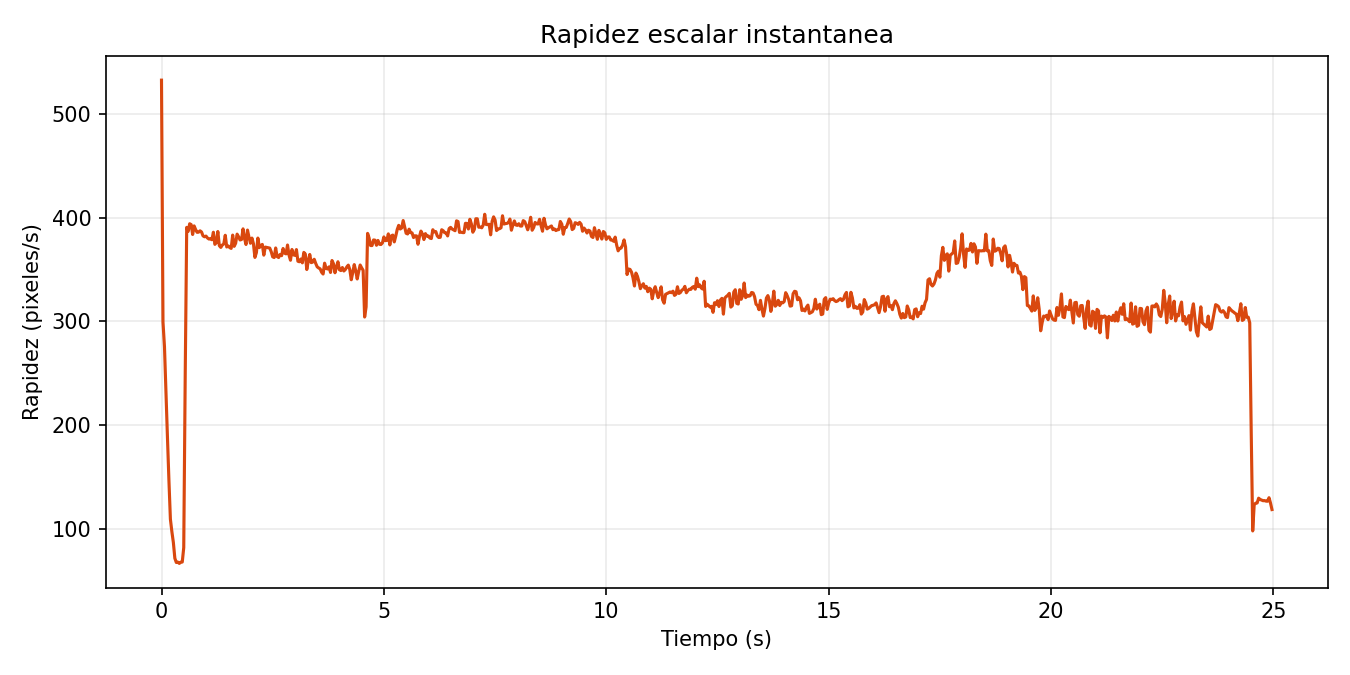
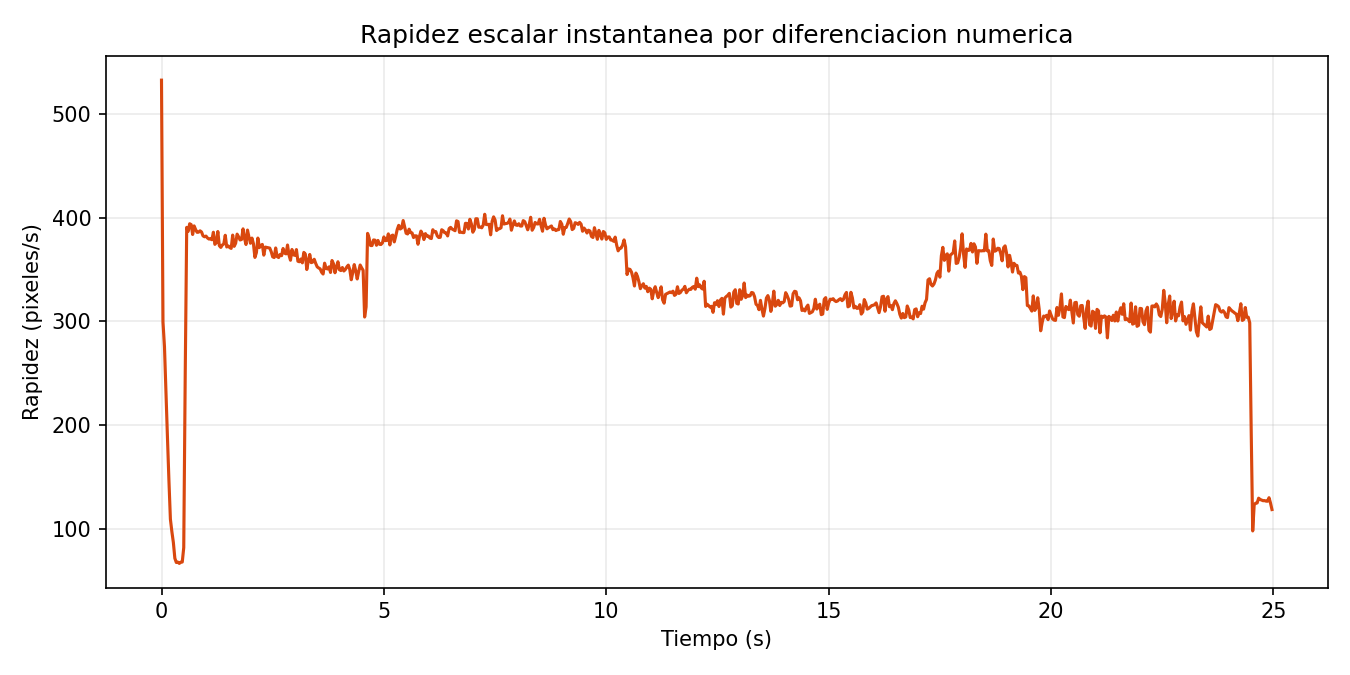
Cambios pequeños en el caso A

Changed region(s): [[0.2489, 0.0311, 0.8089, 0.0622]]

diff --git a/TP4/src/renderizado_caso_A.py b/TP4/src/renderizado_caso_A.py
@@ -32,8 +32,8 @@ ALTO_PANEL = 600
 # ---------------------------------------------------------------------
 # Carga y referencia espacial
 # ---------------------------------------------------------------------
-def cargar_trayectoria_y_zoom(ruta_csv: Path):
-    t, x, y, _, t_nodos, x_nodos, y_nodos, _ = cargar_datos_y_nodos(
+def cargar_trayectoria(ruta_csv: Path):
+    t, _, _, _, t_nodos, x_nodos, y_nodos, _ = cargar_datos_y_nodos(
         ruta_csv, SALTO_NODOS
     )
     zoom = np.genfromtxt(
@@ -44,18 +44,17 @@ def cargar_trayectoria_y_zoom(ruta_csv: Path):
         dtype=float,
     )
     zoom = np.atleast_1d(zoom)
-    if len(t) < 2 or len(zoom) != len(t):
-        raise ValueError("La trayectoria y el zoom no tienen la misma cantidad de muestras")
-    if not np.all(np.isfinite(t)) or not np.all(np.diff(t) > 0):
+    if len(t) < 2 or not np.all(np.isfinite(t)) or not np.all(np.diff(t) > 0):
         raise ValueError("Los tiempos deben ser finitos y estrictamente crecientes")
-    if not np.all(np.isfinite(zoom)) or np.any(zoom <= 0):
-        raise ValueError("El zoom relativo debe contener valores positivos y finitos")
+    if len(zoom) != len(t) or not np.all(np.isfinite(zoom)) or np.any(zoom <= 0):
+        raise ValueError("El zoom debe tener un valor positivo y finito por muestra")
+    zoom = zoom / zoom[0]
 
     x_spline = spline_cubico_natural(t, t_nodos, x_nodos)
     y_spline = spline_cubico_natural(t, t_nodos, y_nodos)
     if not np.all(np.isfinite(x_spline)) or not np.all(np.isfinite(y_spline)):
         raise ValueError("El spline produjo coordenadas no finitas")
-    return t, x, y, x_spline, y_spline, zoom
+    return t, t_nodos, x_nodos, y_nodos, x_spline, y_spline, zoom
 
 
 def obtener_referencia_frame0(ruta_video: Path, mapa):
@@ -96,39 +95,40 @@ def obtener_referencia_frame0(ruta_video: Path, mapa):
 # ---------------------------------------------------------------------
 # Parametrizacion de la trayectoria
 # ---------------------------------------------------------------------
-def remuestrear_velocidad_constante(t, x, y, zoom, t_nodos, x_nodos, y_nodos):
+def remuestrear_velocidad_constante(
+    t, t_nodos, x_nodos, y_nodos, zoom, cantidad_muestras_densas=10000
+):
     t = np.asarray(t, dtype=float)
-    x = np.asarray(x, dtype=float)
-    y = np.asarray(y, dtype=float)
     zoom = np.asarray(zoom, dtype=float)
-    if len(t) < 2 or not (len(t) == len(x) == len(y) == len(zoom)):
-        raise ValueError("Las muestras temporales, espaciales y de zoom deben coincidir")
+    if len(t) < 2 or not np.all(np.diff(t) > 0):
+        raise ValueError("Se necesitan al menos dos tiempos estrictamente crecientes")
+    if len(zoom) != len(t) or not np.all(np.isfinite(zoom)) or np.any(zoom <= 0):
+        raise ValueError("El zoom debe tener un valor positivo y finito por muestra")
 
     # Una tabla densa mide la longitud del spline, no solo la cuerda entre muestras.
-    t_denso = np.linspace(t[0], t[-1], max(10000, 100 * len(t)))
+    t_denso = np.linspace(t[0], t[-1], max(cantidad_muestras_densas, 100 * len(t)))
     x_denso = spline_cubico_natural(t_denso, t_nodos, x_nodos)
     y_denso = spline_cubico_natural(t_denso, t_nodos, y_nodos)
-    zoom_denso = np.interp(t_denso, t, zoom)
     tramos = np.hypot(np.diff(x_denso), np.diff(y_denso))
     longitud = np.concatenate(([0.0], np.cumsum(tramos)))
     if longitud[-1] <= 0.0:
         raise ValueError("La trayectoria no tiene longitud suficiente para renderizarse")
 
-    # El zoom amplifica el desplazamiento visible. Para mantener constante
-    # esa rapidez, la distancia del mapa debe crecer proporcional a 1 / zoom.
-    tiempo_inverso_zoom = 1.0 / zoom_denso
-    integral_inversa = np.concatenate(
-        ([0.0], np.cumsum(
-            0.5 * (tiempo_inverso_zoom[:-1] + tiempo_inverso_zoom[1:])
-            * np.diff(t_denso)
-        ))
-    )
-    velocidad_constante = longitud[-1] / integral_inversa[-1]
-    distancia_objetivo = velocidad_constante * np.interp(t, t_denso, integral_inversa)
-    x_uniforme = np.interp(distancia_objetivo, longitud, x_denso)
-    y_uniforme = np.interp(distancia_objetivo, longitud, y_denso)
-    zoom_uniforme = zoom.copy()
-    return x_uniforme, y_uniforme, zoom_uniforme, velocidad_constante
+    # El zoom amplifica el movimiento visible. Para que la rapidez del
+    # render permanezca constante, la longitud debe avanzar proporcionalmente
+    # a 1 / zoom(t).
+    zoom_denso = np.interp(t_denso, t, zoom)
+    tiempo_visual = 1.0 / zoom_denso
+    tiempo_visual_acumulado = np.concatenate(([0.0], np.cumsum(
+        0.5 * (tiempo_visual[:-1] + tiempo_visual[1:]) * np.diff(t_denso)
+    )))
+    # Esta velocidad es la rapidez aparente sobre el panel, no la rapidez
+    # geométrica sin zoom sobre el mapa.
+    velocidad_constante = longitud[-1] / tiempo_visual_acumulado[-1]
+    distancia = velocidad_constante * np.interp(t, t_denso, tiempo_visual_acumulado)
+    x_uniforme = np.interp(distancia, longitud, x_denso)
+    y_uniforme = np.interp(distancia, longitud, y_denso)
+    return x_uniforme, y_uniforme, zoom, velocidad_constante
 
 
 def validar_velocidad_constante(t, velocidad_constante):
@@ -194,14 +194,10 @@ def renderizar_caso_A(ruta_csv=RUTA_CSV, ruta_mapa=RUTA_MAPA, ruta_video=RUTA_VI
     frame0, _, base_width, base_height = obtener_referencia_frame0(
         RUTA_VIDEO_ORIGINAL, mapa
     )
-    t, _, _, x_spline, y_spline, zoom = cargar_trayectoria_y_zoom(Path(ruta_csv))
-    _, _, _, _, t_nodos, x_nodos, y_nodos, _ = cargar_datos_y_nodos(
-        Path(ruta_csv), SALTO_NODOS
-    )
+    t, t_nodos, x_nodos, y_nodos, _, _, zoom = cargar_trayectoria(Path(ruta_csv))
     x, y, zoom, velocidad_constante = remuestrear_velocidad_constante(
-        t, x_spline, y_spline, zoom, t_nodos, x_nodos, y_nodos
+        t, t_nodos, x_nodos, y_nodos, zoom
     )
-    zoom = zoom / zoom[0]
     velocidad_constante = validar_velocidad_constante(t, velocidad_constante)
 
     ruta_video = Path(ruta_video)

diff --git a/TP4/src/mostrar_resultados.py b/TP4/src/mostrar_resultados.py
@@ -96,7 +96,7 @@ def mostrar_resultados(
 
     figure, axis = plt.subplots(figsize=(9, 4.5))
     axis.plot(data[:, 1], speed, color="#d9480f")
-    axis.set_title("Rapidez escalar instantanea")
+    axis.set_title("Rapidez escalar instantanea por diferenciacion numerica")
     axis.set_xlabel("Tiempo (s)")
     axis.set_ylabel("Rapidez (pixeles/s)")
     axis.grid(alpha=0.25)
@@ -114,8 +114,13 @@ def mostrar_resultados(
 
 
 def calcular_rapidez_instantanea(data):
-    """Obtiene la rapidez escalar a partir de diferencias temporales."""
+    """Calcula v(t) diferenciando numericamente la trayectoria x(t), y(t)."""
     time = data[:, 1]
+    if len(time) < 2 or np.any(np.diff(time) <= 0):
+        raise ValueError("Los tiempos deben ser estrictamente crecientes")
+
+    # np.gradient usa diferencias centrales en el interior y unilaterales
+    # de segundo orden en los extremos.
     velocity_x = np.gradient(data[:, 2], time)
     velocity_y = np.gradient(data[:, 3], time)
     return np.hypot(velocity_x, velocity_y)
